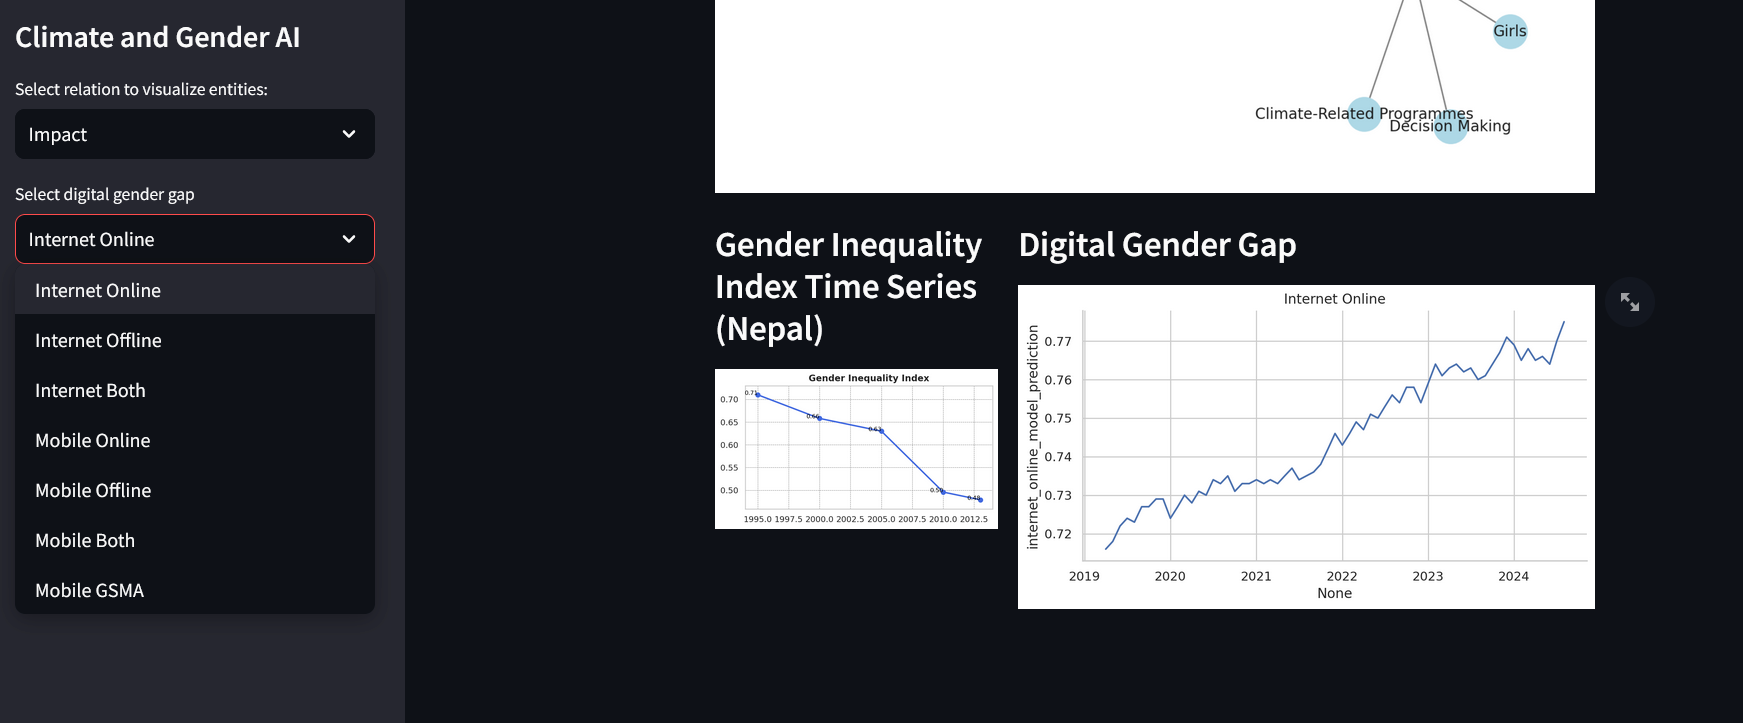
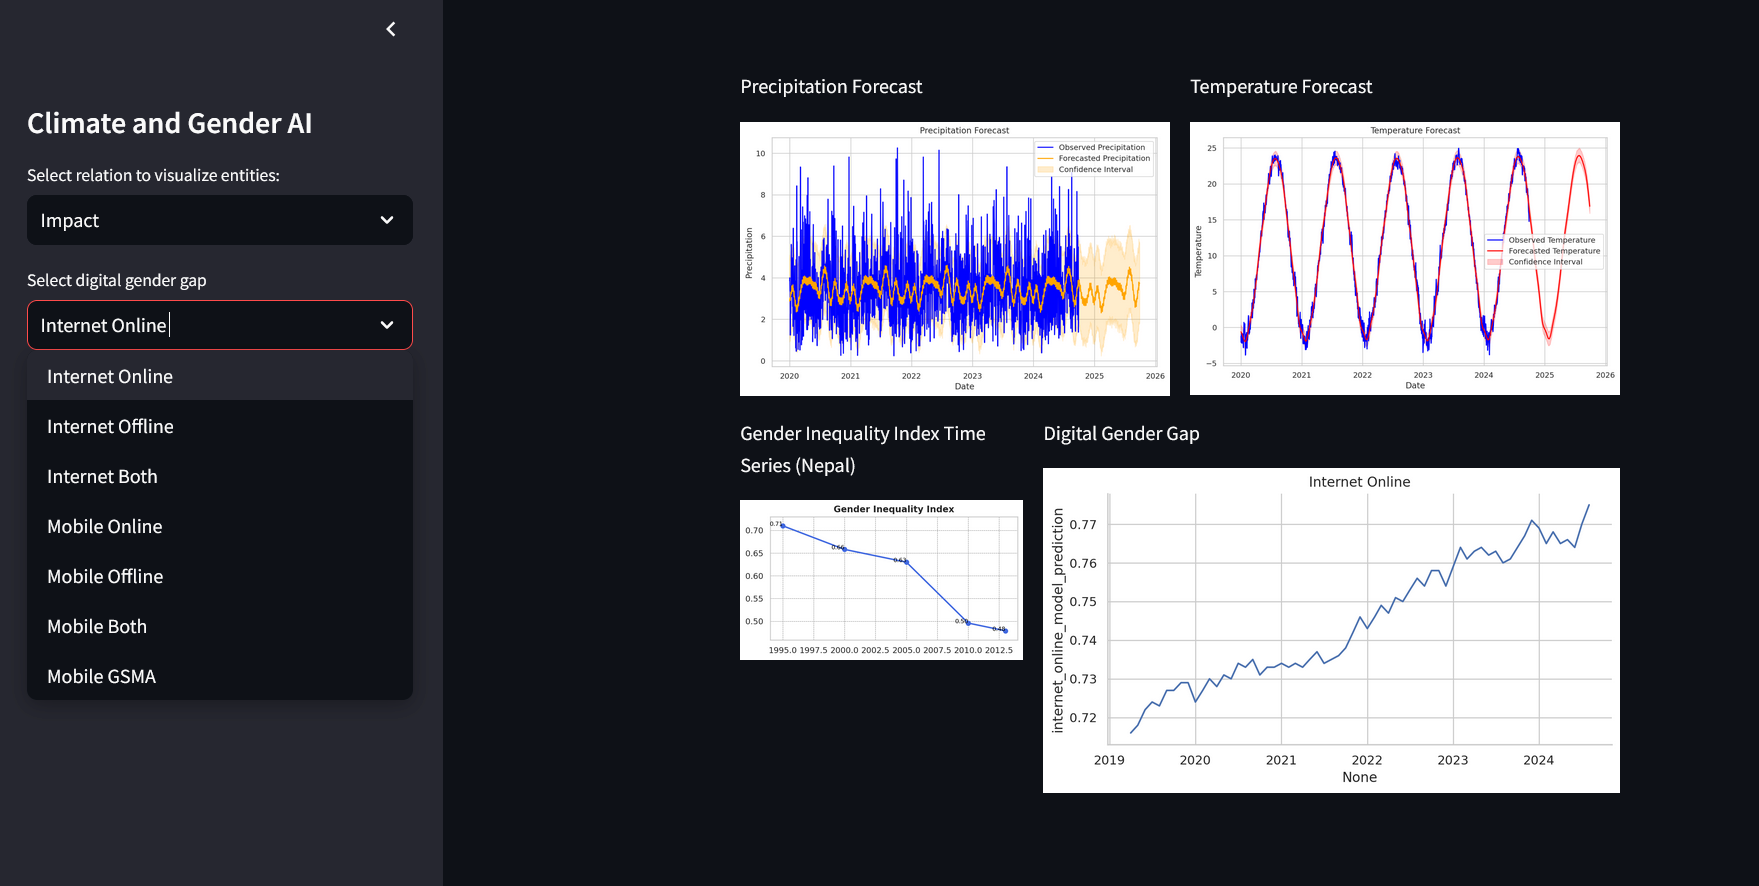
*README.md

diff --git a/Readme.md b/Readme.md
@@ -27,10 +27,7 @@ This project proposes a data-driven approach using a combination of Knowledge Gr
 user can click on Explain Graph, which will explain the relation of graph in natural language
 ![alt text](image-5.png)
 
-# Time series forecast
-![alt text](image-4.png)
-
-## Digital Gender Gap and Gender Inequality Index
+# Gender Gap and Forecast
 ![alt text](image-3.png)
 
 
